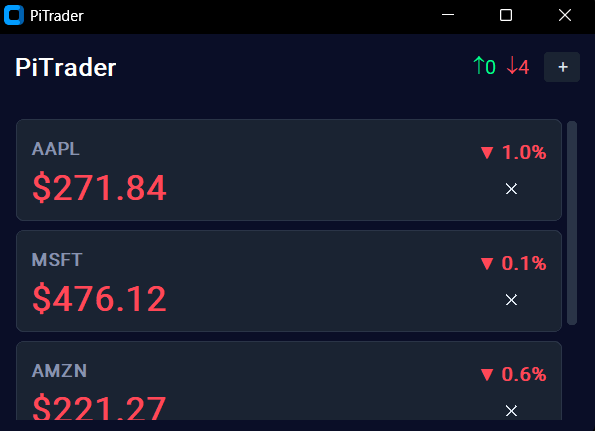
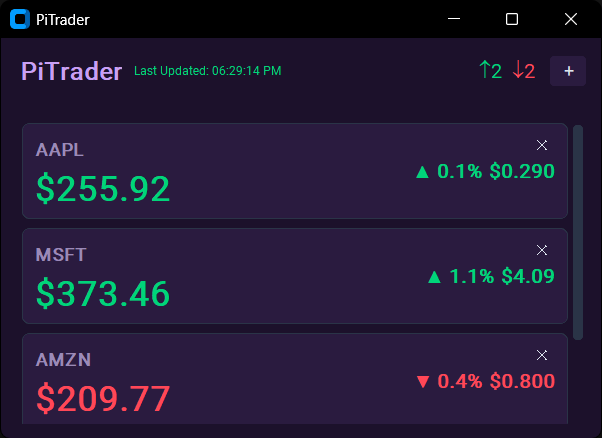
Updated to my colors

diff --git a/src/main.py b/src/main.py
@@ -21,12 +21,12 @@ class StockTrackerApp(ctk.CTk):
         self.geometry("480x320")
         self.attributes('-fullscreen', False)
         
-        self.bg_primary = "#0a0e27"
-        self.bg_card = "#1a2332"
-        self.accent_green = "#00ff88"
+        self.bg_primary = "#1c112b"
+        self.bg_card = "#2a1b3f"
+        self.accent_green = "#00d47a"
         self.accent_red = "#ff4757"
-        self.text_primary = "#ffffff"
-        self.text_secondary = "#8892b0"
+        self.text_primary = "#c9a0f5"
+        self.text_secondary = "#9b8ab8"
         self.configure(fg_color=self.bg_primary)
         self.client = finnhub.Client(api_key=API_KEY)
         self.symbols = self.load_portfolio()
@@ -113,7 +113,7 @@ class StockTrackerApp(ctk.CTk):
             height=24,
             font=ctk.CTkFont(size=14),
             fg_color=self.bg_card,
-            hover_color="#2a3447",
+            hover_color="#3a2a5a",
             corner_radius=4
         )
         self.edit_btn.pack(side="left", padx=(8, 0))
@@ -154,7 +154,7 @@ class StockTrackerApp(ctk.CTk):
             fg_color=self.bg_card,
             corner_radius=12,
             border_width=2,
-            border_color="#2a3447"
+            border_color="#3a2a5a"
         )
         
         closed_content = ctk.CTkFrame(self.closed_frame, fg_color="transparent")
@@ -200,7 +200,7 @@ class StockTrackerApp(ctk.CTk):
             self,
             fg_color="transparent",
             scrollbar_button_color="#2a3447",
-            scrollbar_button_hover_color="#3a4557"
+            scrollbar_button_hover_color="#3a2a5a"
         )
         self.stocks_frame.pack(pady=(5, 5), padx=10, fill="both", expand=True)
         
